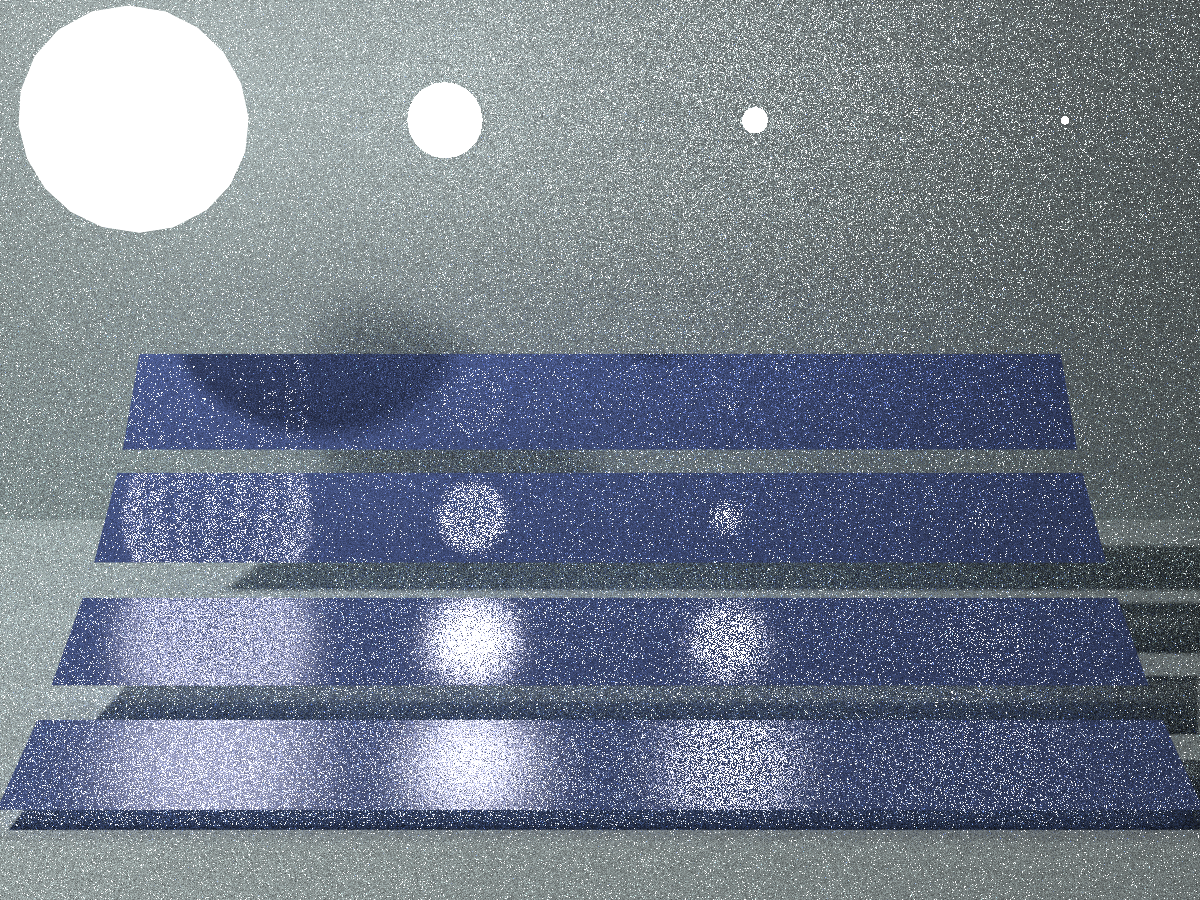
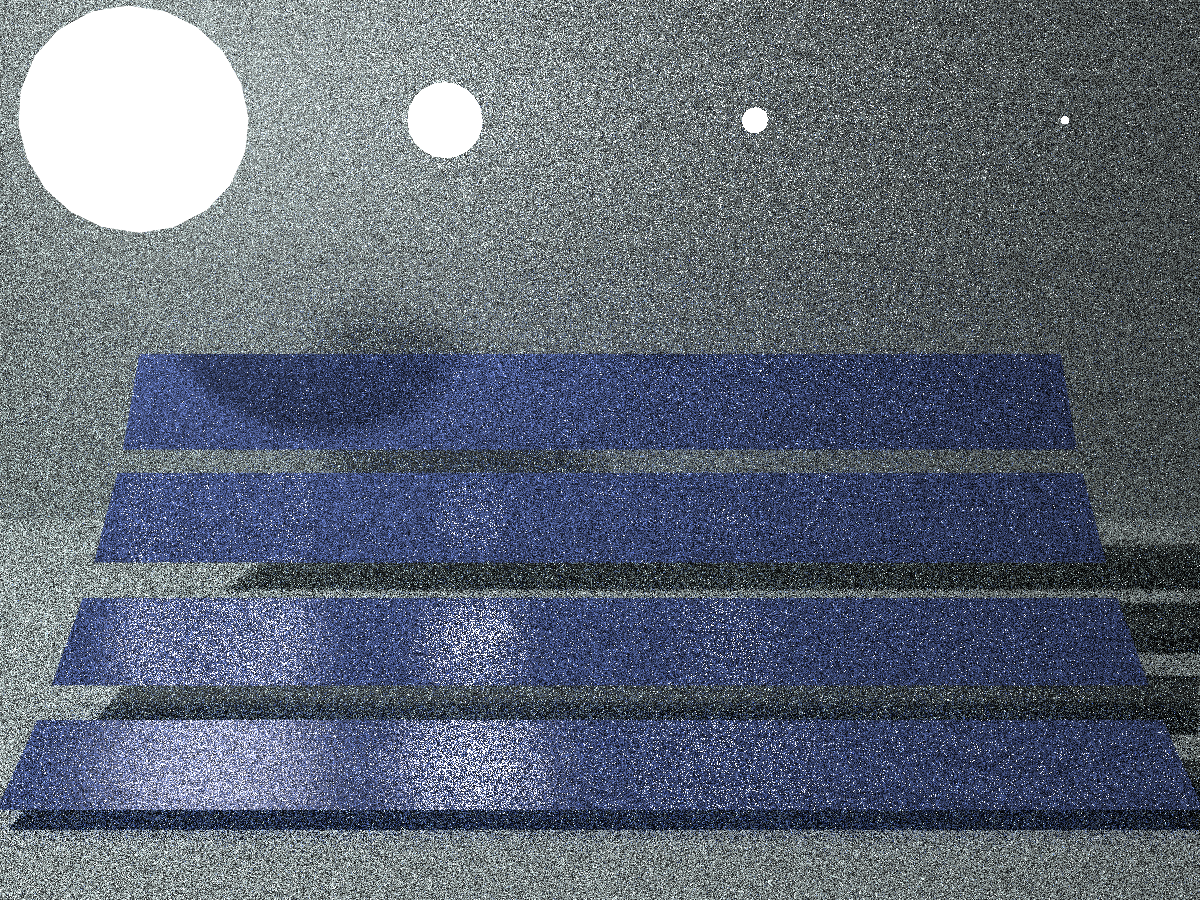
cos-weight sampling

diff --git a/montecarlo_ray_trace/scene/scene.cpp b/montecarlo_ray_trace/scene/scene.cpp
@@ -7,7 +7,7 @@
 #include "../sample/sample.h"
 #include <time.h>
 
-#define SPP 180
+#define SPP 16
 //#define DEBUG
 #include<map>
 using namespace std;
@@ -157,15 +157,25 @@ dvec3 Scene::rayCasting(Ray& ray, int& i, int& j) {
 		float rate = rand()/(float)(RAND_MAX);
 		if (rate > STOP_RATE) return L_dir + L_indir + L_emit;
 
-		Ray randomRay = randomHemisphereRay(N, cur_point);
-		shared_ptr<IntersectResult> hit_res3 = bvh->intersectBVH(randomRay);
+		//Ray randomRay = randomHemisphereRay(N, cur_point);
+		//shared_ptr<IntersectResult> hit_res3 = bvh->intersectBVH(randomRay);
+		//if (hit_res3 && hit_res3->isIntersect) {
+		//	bool isLight = hit_res3->triangle->material.isLight();
+		//	//if (!isLight || isLight && randomf() > RAND2) {
+		//		float pdf_hemi = 1.0 / (2.0 * PI);
+		//		float cosine = fabs(dot(normalize(randomRay.direction), N));
+		//		L_indir = m.BRDF(ray, randomRay, N) * cosine / pdf_hemi / STOP_RATE;
+		//		L_indir *= rayCasting(randomRay, i, j);
+		//	//}
+		//}
+		vec3 reflect_ray = reflect(ray, N);
+		Ray cosRandomRay = randomCosWeightSampling(reflect_ray, cur_point);
+		shared_ptr<IntersectResult> hit_res3 = bvh->intersectBVH(cosRandomRay);
 		if (hit_res3 && hit_res3->isIntersect) {
 			bool isLight = hit_res3->triangle->material.isLight();
 			if (!isLight || isLight && randomf() > RAND2) {
-				float pdf_hemi = 1.0 / (2.0 * PI);
-				float cosine = fabs(dot(normalize(randomRay.direction), N));
-				L_indir = m.BRDF(ray, randomRay, N) * cosine / pdf_hemi / STOP_RATE;
-				L_indir *= rayCasting(randomRay, i, j);
+				L_indir = m.BRDF(ray, cosRandomRay, N) * PI / STOP_RATE;
+				L_indir *= rayCasting(cosRandomRay, i, j);
 			}
 		}
 		

diff --git a/montecarlo_ray_trace/sample/sample.cpp b/montecarlo_ray_trace/sample/sample.cpp
@@ -19,3 +19,22 @@ vec3 toNormalHemisphere(vec3 v, vec3 N) {
 float randomf() {
 	return rand()*1.0 / RAND_MAX;
 }
+vec3 randomCosDir() {
+	float r1 = randomf(), r2 = randomf();
+	float thy = 2 * PI * r1;
+	float z = sqrt(r2);
+	float theta= acos(sqrt(r2));
+	float sintheta = sin(theta);
+	return vec3(sintheta * cos(thy), sintheta * sin(thy), z);
+}
+vec3 toLocal( vec3& N, vec3& w_dir) {
+	vec3 help = vec3(0, 0, 1);
+	vec3 x = normalize(cross(N, help));
+	vec3 y = normalize(cross(N, x));
+	return w_dir.x * x + w_dir.y * y + w_dir.z * N;
+}
+Ray randomCosWeightSampling( glm::vec3& N, glm::vec3 cur_point) {
+	vec3 world_dir = randomCosDir();
+	vec3 local_dir = toLocal(N, world_dir);
+	return Ray(cur_point, cur_point + local_dir);
+}

diff --git a/montecarlo_ray_trace/main.cpp b/montecarlo_ray_trace/main.cpp
@@ -8,6 +8,7 @@
 #include"camera/Camera.h"
 #include"obj/Obj.h"
 #include"scene/scene.h"
+#include"sample/sample.h"
 #include"test/Log.h"
 #include "main.h"
 #include<vector>
@@ -29,7 +30,16 @@ int main(void) {
 	//GOBJ = new Obj();
 	//GOBJ->loadFile("./scenes/bunny/bunny.obj");
 	LOG("---------------------new main----------------------");
+	srand(time(NULL));
 	GScene = new Scene(SCENE_NAME);
+	/*float sx = 0, sy = 0, sz = 0;
+	int k = 1000;
+	for (int i = 0; i < k; i++) {
+		vec3 t = randomCosDir();
+		cout << t;
+		sx += t.x; sy += t.y; sz += t.z;
+	}
+	cout << sx/k << ' ' << sy/k << ' ' << sz/k << endl;*/
 	system("pause");                        
 	return 0;
 }

diff --git a/montecarlo_ray_trace/material/Material.cpp b/montecarlo_ray_trace/material/Material.cpp
@@ -71,8 +71,8 @@ bool isSame(vec3& a, vec3& b) {
 }
 vec3 Material::BRDF(Ray& out, Ray& in, vec3& N) {
 	vec3 res = Kd / PI;
-	vec3 R = normalize(reflect(in, N));
-	res += (Ns + 2)*Ks*powf(fabs(dot(normalize(out.direction), R)), Ns) / (2 * PI);
+	vec3 R = normalize(reflect(out, N));
+	res += (Ns + 2)*Ks*powf(glm::max(0.0f,dot(normalize(in.direction), R)), Ns) / (2 * PI);
 	return res;
 }
 

diff --git a/montecarlo_ray_trace/sample/sample.h b/montecarlo_ray_trace/sample/sample.h
@@ -2,6 +2,10 @@
 
 #include<glm/glm.hpp>
 #include<stdlib.h>
+#include"../ray/Ray.h"
+#include"../material/Material.h"
 glm::vec3 SampleHemisphere();
 glm::vec3 toNormalHemisphere(glm::vec3 v, glm::vec3 N);
+Ray randomCosWeightSampling(glm::vec3& N, glm::vec3 cur_point);
 float randomf();
+glm::vec3 randomCosDir();

diff --git a/montecarlo_ray_trace/ray/Ray.cpp b/montecarlo_ray_trace/ray/Ray.cpp
@@ -18,7 +18,7 @@ vec3 Inv(glm::vec3 dir) {
 	return res;
 }
  glm::vec3 reflect(Ray& r, glm::vec3& N) {
-	vec3 I = r.direction;
+	vec3 I = normalize(r.direction);
 	return I - 2 * dot(I, N) * N;
 }
  Ray reflect(Ray&r, glm::vec3& N, glm::vec3 p) {
